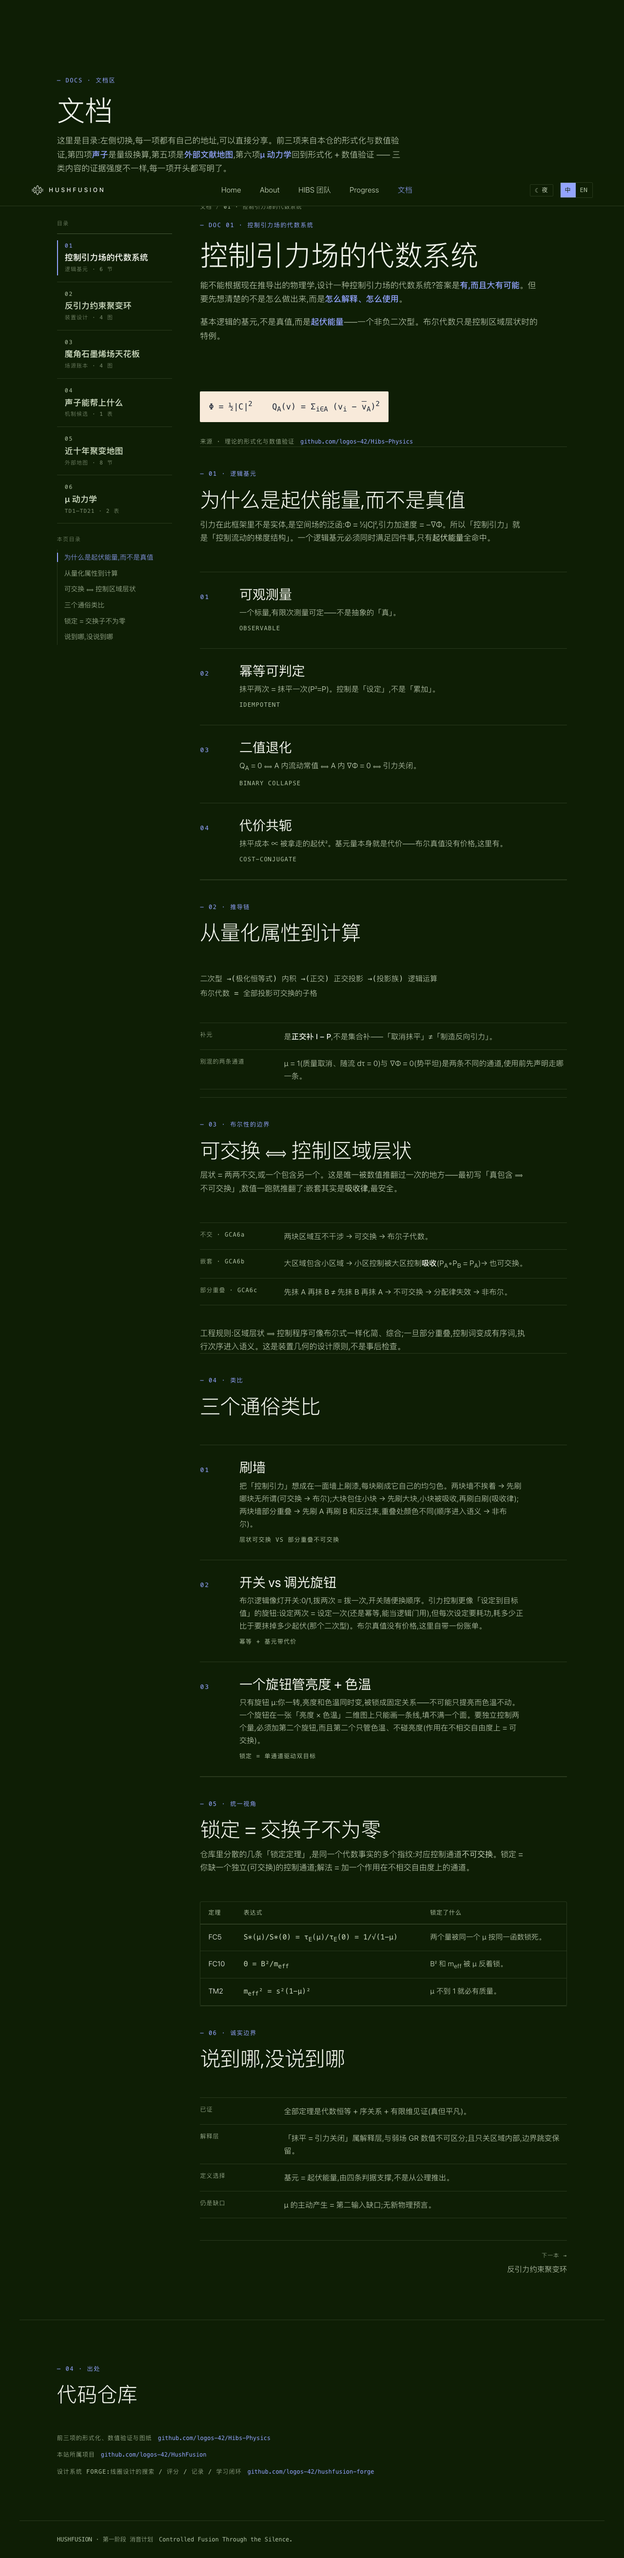
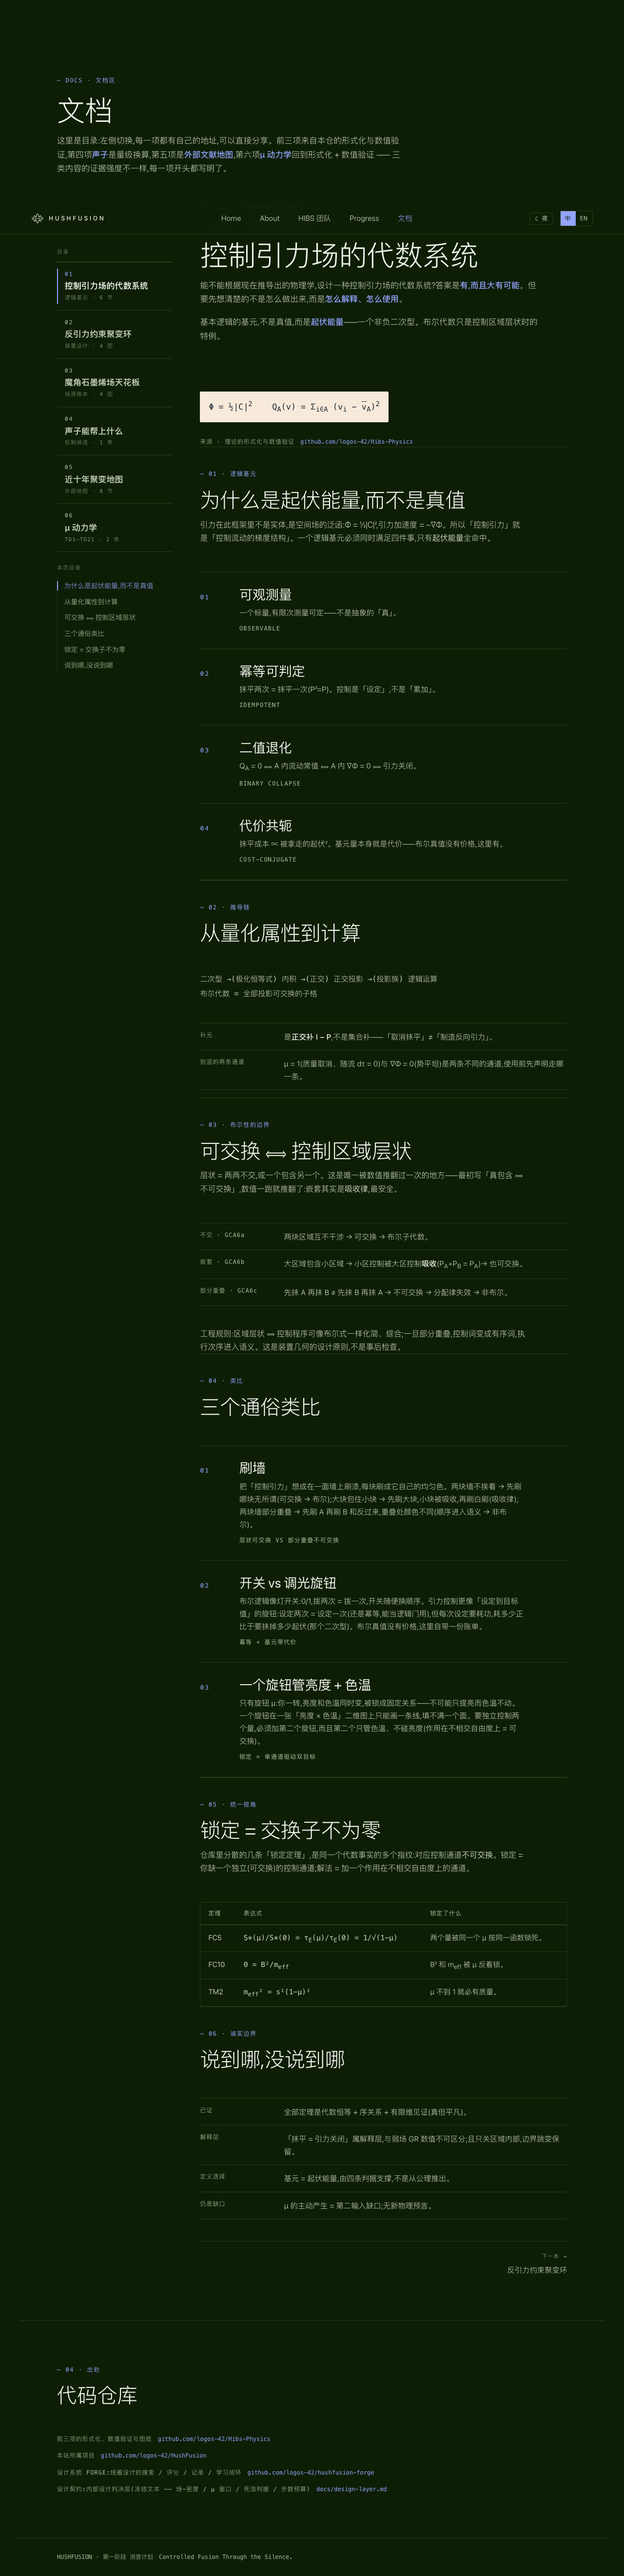
feat(site): 公开判决漏斗(8 道门表 + 判决期 1.29% + 生死门 G1)+ 挂设计契约 design-layer.md
需方裁决:「公开」「要挂」。
- 进展页新增「判决漏斗」一节:G0–G7 门表(月/交付物/通过条件/人数/预写失败处置)、
  判决期 15 人·月 = 五年 1.29%(前 18 月 93 人·月 = 8.0%,全周期 60 月)、
  生死门 G1(M6,μ 签名在不在)、μ 数量级阶梯 ~1e−4→1e−3→1e−2→1e−1
- 页内如实标注改档:原 audience: self,经需方 2026-09-26 决定公开;
  表尾保留「数目字是排程假设,不是承诺;货币成本按约定不入账」
- docs.html「本站所属项目」新增设计契约行 → hushfusion-forge/docs/design-layer.md;
  进展页 #forge 同步加「判决层契约(冻结文本) →」

验收:verify-site.mjs 226/226(本地 + 部署后线上);线上读回逐条命中;
wiki 7 道门全绿;未改 style.css/app.js ⇒ ?v= 仍 19

diff --git a/progress.html b/progress.html
@@ -62,6 +62,36 @@
     <p><span class="status">Not built yet · device</span> <span class="status">Running · FORGE v0.1.0</span></p>
   </section>
 
+  <!-- ◆ 判决漏斗:装置侧唯一已经写死的东西不是参数,是判据 -->
+  <section class="band" id="funnel">
+    <div class="section-head reveal">
+      <p class="kicker" data-zh="— 判决漏斗" data-en="— Verdict funnel">— 判决漏斗</p>
+      <h2 class="section-title" data-html="1" data-zh="&lt;strong&gt;3 个判决量 + 8 道门 + 1 条 μ 数量级阶梯&lt;/strong&gt;:先把判决条件写死,再动采购" data-en="&lt;strong&gt;3 verdict quantities + 8 gates + 1 μ order-of-magnitude ladder&lt;/strong&gt;: fix the verdict conditions first, buy things later">3 个判决量 + 8 道门 + 1 条 μ 数量级阶梯:先把判决条件写死,再动采购</h2>
+      <p class="section-lede" data-html="1"
+         data-zh="装置侧现在的位置就是这张表的第一行。&lt;strong&gt;前 6 个月&lt;/strong&gt;只花 &lt;strong&gt;15 人·月&lt;/strong&gt;(五年计划的 &lt;strong&gt;1.29%&lt;/strong&gt;),而 &lt;strong&gt;G1(M6)是全计划最便宜也最决定性的一步 —— 生死门:μ 签名在不在&lt;/strong&gt;。每个阶段要碰到的 μ 量级是预先写死的:~1e−4(G0,桌面,无装置)→ 1e−3(G1)→ 1e−2(G2 / G3 复现)→ 1e−1(G4);前 18 个月合起来 93 人·月,占五年 8.0%;全周期 60 个月。每一道门的失败处置都在立项前写好了 —— 这是这张表最要紧的部分。"
+         data-en="The device side currently sits on the first row of this table. The &lt;strong&gt;first six months&lt;/strong&gt; cost &lt;strong&gt;15 person-months&lt;/strong&gt; (1.29% of the five-year plan), and &lt;strong&gt;G1 (M6) is the cheapest and most decisive step in the whole plan — the life-or-death gate: is there a μ signature or not&lt;/strong&gt;. The order of magnitude each stage has to reach is fixed in advance: ~1e−4 (G0, bench, no device) → 1e−3 (G1) → 1e−2 (G2 / G3 reproduction) → 1e−1 (G4); the first 18 months together are 93 person-months, 8.0% of the five years; the full cycle is 60 months. Every gate has its failure handling written before the project starts — the most important part of this table.">装置侧现在的位置就是这张表的第一行。<strong>前 6 个月</strong>只花 <strong>15 人·月</strong>(五年计划的 <strong>1.29%</strong>),而 <strong>G1(M6)是全计划最便宜也最决定性的一步 —— 生死门:μ 签名在不在</strong>。每个阶段要碰到的 μ 量级是预先写死的:~1e−4(G0,桌面,无装置)→ 1e−3(G1)→ 1e−2(G2 / G3 复现)→ 1e−1(G4);前 18 个月合起来 93 人·月,占五年 8.0%;全周期 60 个月。每一道门的失败处置都在立项前写好了 —— 这是这张表最要紧的部分。</p>
+    </div>
+
+      <div class="table-wrap reveal">
+        <table class="doc">
+          <thead>
+            <tr><th data-zh="门" data-en="Gate">门</th><th data-zh="月" data-en="Month">月</th><th data-zh="交付物" data-en="Deliverable">交付物</th><th data-zh="通过条件" data-en="Pass condition">通过条件</th><th data-zh="失败处置(预写)" data-en="Pre-written failure handling">失败处置(预写)</th></tr>
+          </thead>
+          <tbody>
+                <tr><td data-zh="G0 · 2 人" data-en="G0 · 2 people">G0 · 2 人</td><td data-zh="3" data-en="3">3</td><td data-zh="判据规范 + 零假设基准 + 预注册协议(论文 1)" data-en="Criteria spec + null-hypothesis baseline + pre-registration protocol (paper 1)">判据规范 + 零假设基准 + 预注册协议(论文 1)</td><td data-zh="标准 MHD 预测 R_ci = 0 的解析 / 数值基准 + 诊断方案定标" data-en="Analytic and numerical benchmarks for the standard-MHD prediction R_ci = 0, plus diagnostics calibrated">标准 MHD 预测 R_ci = 0 的解析 / 数值基准 + 诊断方案定标</td><td data-zh="继续(无实验)" data-en="Continue (no experiment)">继续(无实验)</td></tr>
+                <tr><td data-zh="G1 · 3 人" data-en="G1 · 3 people">G1 · 3 人</td><td data-zh="6" data-en="6">6</td><td data-zh="<strong>D1 判决实验 v1</strong>(桌面判据台)" data-en="<strong>D1 verdict experiment v1</strong> (bench-top criteria rig)"><strong>D1 判决实验 v1</strong>(桌面判据台)</td><td data-zh="R_ci 实测 &gt; 3σ,且零假设预测 &lt; 分辨率" data-en="Measured R_ci &gt; 3σ, with the null-hypothesis prediction &lt; resolution">R_ci 实测 &gt; 3σ,且零假设预测 &lt; 分辨率</td><td data-zh="R_ci = 0 ⟹ 停装置线,转纯理论(负结果可发表)" data-en="R_ci = 0 ⟹ halt the device line, go pure theory (a negative result is publishable)">R_ci = 0 ⟹ 停装置线,转纯理论(负结果可发表)</td></tr>
+                <tr><td data-zh="G2 · 5 人" data-en="G2 · 5 people">G2 · 5 人</td><td data-zh="12" data-en="12">12</td><td data-zh="D3 标度初值 k + μ(B, f, 配比)标定曲线" data-en="D3 scaling seed k + a calibration curve for μ(B, f, mix)">D3 标度初值 k + μ(B, f, 配比)标定曲线</td><td data-zh="k 拟合带置信区间;μ 达 1e−2" data-en="k fitted with a confidence interval; μ reaching 1e−2">k 拟合带置信区间;μ 达 1e−2</td><td data-zh="k &lt; 0.5 ⟹ 转 B 计划(μ 降级为辅助输运层)" data-en="k &lt; 0.5 ⟹ switch to plan B (μ demoted to an auxiliary transport layer)">k &lt; 0.5 ⟹ 转 B 计划(μ 降级为辅助输运层)</td></tr>
+                <tr><td data-zh="G3 · 8 人" data-en="G3 · 8 people">G3 · 8 人</td><td data-zh="18" data-en="18">18</td><td data-zh="外部实验室独立复现(≥2 装置 / ≥3 批次)" data-en="Independent reproduction in external labs (≥2 rigs / ≥3 batches)">外部实验室独立复现(≥2 装置 / ≥3 批次)</td><td data-zh="复现包齐全,第三方数据同号同量级" data-en="Reproduction package complete; third-party data same sign, same order of magnitude">复现包齐全,第三方数据同号同量级</td><td data-zh="复现失败 ⟹ 回 G1 重设诊断" data-en="Reproduction fails ⟹ return to G1 and re-spec the diagnostics">复现失败 ⟹ 回 G1 重设诊断</td></tr>
+                <tr><td data-zh="G4 · 12 人" data-en="G4 · 12 people">G4 · 12 人</td><td data-zh="24" data-en="24">24</td><td data-zh="D2 锁定判决(Λ)+ τ_E 标度律(FC4)" data-en="D2 locking verdict (Λ) + the τ_E scaling law (FC4)">D2 锁定判决(Λ)+ τ_E 标度律(FC4)</td><td data-zh="同 μ 下 τ_E 增益与 s 惩罚的实测比 + 1/√(1−μ) 拟合" data-en="Measured ratio of τ_E gain to s penalty at equal μ, plus a 1/√(1−μ) fit">同 μ 下 τ_E 增益与 s 惩罚的实测比 + 1/√(1−μ) 拟合</td><td data-zh="Λ = 1 ⟹ 反引力不可作主约束,并入 FRC / CFR2 路线" data-en="Λ = 1 ⟹ anti-gravity cannot be the primary constraint; merge into FRC / CFR2">Λ = 1 ⟹ 反引力不可作主约束,并入 FRC / CFR2 路线</td></tr>
+                <tr><td data-zh="G5 · 20 人" data-en="G5 · 20 people">G5 · 20 人</td><td data-zh="36" data-en="36">36</td><td data-zh="D-D 产额标度 + μ–⟨σv⟩ 耦合闭合" data-en="D-D yield scaling + closing the μ–⟨σv⟩ coupling">D-D 产额标度 + μ–⟨σv⟩ 耦合闭合</td><td data-zh="中子产额对约束参数的标度律;反应率随 μ 的实测修正" data-en="A scaling law of neutron yield against confinement parameters; measured correction of reactivity with μ">中子产额对约束参数的标度律;反应率随 μ 的实测修正</td><td data-zh="产额不随约束提升 ⟹ 回 G4" data-en="Yield does not rise with confinement ⟹ return to G4">产额不随约束提升 ⟹ 回 G4</td></tr>
+                <tr><td data-zh="G6 · 28 人" data-en="G6 · 28 people">G6 · 28 人</td><td data-zh="48" data-en="48">48</td><td data-zh="D-T / 等效高性能燃烧路线评估" data-en="D-T / equivalent high-performance burn route assessment">D-T / 等效高性能燃烧路线评估</td><td data-zh="完成 D-D / 替代实验、屏蔽与许可设计工程门;D-T Q&gt;1 只是外部合作或极限情形,不作五年承诺" data-en="Close the D-D / alternative experiments, shielding and licensing engineering gates; D-T Q&gt;1 is only an external-collaboration or limiting case, never a five-year promise">完成 D-D / 替代实验、屏蔽与许可设计工程门;D-T Q&gt;1 只是外部合作或极限情形,不作五年承诺</td><td data-zh="未达燃烧条件 ⟹ 保留 D-D / 脉冲实验主线" data-en="Burn conditions not reached ⟹ keep the D-D / pulsed experiment main line">未达燃烧条件 ⟹ 保留 D-D / 脉冲实验主线</td></tr>
+                <tr><td data-zh="G7 · 35 人" data-en="G7 · 35 people">G7 · 35 人</td><td data-zh="60" data-en="60">60</td><td data-zh="系统级可重复运行 + 路线裁决" data-en="System-level repeatable operation + route arbitration">系统级可重复运行 + 路线裁决</td><td data-zh="可审计能量账本、长脉冲 / 高重复率数据、独立复核与下一阶段放大方案" data-en="An auditable energy ledger, long-pulse / high-repetition data, independent review and a next-stage scale-up plan">可审计能量账本、长脉冲 / 高重复率数据、独立复核与下一阶段放大方案</td><td data-zh="—" data-en="—">—</td></tr>
+          </tbody>
+        </table>
+      </div>
+    <p style="color:var(--ink-3);font-size:.875rem;margin-top:16px" data-zh="数目字是排程假设,不是承诺;货币成本按约定不写进这份账。出处:上游 Hibs-Physics 的判决漏斗页(原标记 audience: self,经需方 2026-09-26 决定公开)。" data-en="The numbers are scheduling assumptions, not promises; monetary cost is by convention kept out of this ledger. Source: the verdict-funnel page in the upstream Hibs-Physics repository (originally marked audience: self, released by the owner on 2026-09-26).">数目字是排程假设,不是承诺;货币成本按约定不写进这份账。出处:上游 Hibs-Physics 的判决漏斗页(原标记 audience: self,经需方 2026-09-26 决定公开)。</p>
+  </section>
+
   <!-- ◆ 技术(原 technology.html 已并入本节) -->
   <section class="band" id="tech">
     <div class="section-head reveal">
@@ -133,6 +163,7 @@
     <p style="margin-top:26px">
       <a class="see-all" href="https://github.com/logos-42/hushfusion-forge" target="_blank" rel="noopener"
          data-zh="代码仓库:github.com/logos-42/hushfusion-forge →" data-en="Repository: github.com/logos-42/hushfusion-forge →">代码仓库:github.com/logos-42/hushfusion-forge →</a>
+      <a class="see-all" href="https://github.com/logos-42/hushfusion-forge/blob/master/docs/design-layer.md" target="_blank" rel="noopener",          style="margin-left:18px",          data-zh="判决层契约(冻结文本) →" data-en="Verdict-layer contract (frozen text) →">判决层契约(冻结文本) →</a>
     </p>
   </section>
 

diff --git a/docs.html b/docs.html
@@ -1149,6 +1149,10 @@
       <span class="mono" style="color:var(--ink-3);font-size:12px;letter-spacing:1px" data-zh="设计系统 FORGE:线圈设计的搜索 / 评分 / 记录 / 学习闭环" data-en="The FORGE design system: search, score, record and learn coil designs">设计系统 FORGE:线圈设计的搜索 / 评分 / 记录 / 学习闭环</span>
       <a href="https://github.com/logos-42/hushfusion-forge" rel="noopener">github.com/logos-42/hushfusion-forge</a>
     </p>
+    <p class="cite-links reveal" style="margin-top:14px">
+      <span class="mono" style="color:var(--ink-3);font-size:12px;letter-spacing:1px" data-zh="设计契约:内部设计判决层(冻结文本 —— 场-密度 / μ 窗口 / 死活判据 / 步数预算)" data-en="Design contract: the internal-design verdict layer (frozen: field-density / mu window / death threshold / step budget)">设计契约:内部设计判决层(冻结文本 —— 场-密度 / μ 窗口 / 死活判据 / 步数预算)</span>
+      <a href="https://github.com/logos-42/hushfusion-forge/blob/master/docs/design-layer.md" rel="noopener">docs/design-layer.md</a>
+    </p>
   </section>
 
 </main>

diff --git a/docs/wiki/log.md b/docs/wiki/log.md
@@ -236,5 +236,7 @@
 | 2026-09-26 | feat | 判决层接入:进展页 `#forge` 增「内部设计判决层」一栏 —— 上游闭式解(PF3/FC1/FC4/FC11b/TD19–TD21)实现成六道门,同一份参考设计的结论:MATBG (N=2) 面外 0.12 T ⟹ **无解**(χ_μ = 2.1e−4);面内 1.6 T ⟹ 窗口开(1.479)但线圈峰场 3.416 T 超天花板 ⟹ 不成立 | 需方「Forge 要根据 ProjectionPhysics 内部的设计来实现,然后把进展页的概念改动」;上游 = `logos-42/Hibs-Physics` |
 | 2026-09-26 | design | 阶段口径改准:「概念」→ 事实陈述(装置侧还没有装置,当前处在**判据规范**这一步;设计侧已有可运行系统)。门数 16 → 17(新增 G17 内部设计锚点门),首页 / 进展页 / 关于页三处同步 | 「概念」是含糊词;上游那一步有名字。公开纪律:上游 wiki 58 页全 `audience: self` ⟹ 判决漏斗的排期 / 人·月 / 编成 / 门表**不进公开站**,只发这一步的名字 |
 | 2026-09-26 | fix | 修站点自己的一个**假红**:`deploy.sh` 的线上验收在 `set -o pipefail` + `set -e` 下,发布刚落地时的抖动会让**整个部署退出 1**(内容其实已核对)。改为重试到判据(最多 3 次),三次都不过才报「这是真红,不是抖动」 | 实测:部署那次退出 1;同一份线上验收独立重跑 **226/226 通过**。后续两次部署把抖动率量出来了:其中一次尝试 1、2 连续失败、**第 3 次才过**(重试把原本的假红救回来了);另一次第 1 次就过 ⇒ 抖动只在发布刚落地那几秒,且**一次重试不够** —— 假红比没有门更伤(会让「部署成功」这个判断失去意义) |
+| 2026-09-26 | feat | **公开判决漏斗**:进展页新增「判决漏斗」一节 —— 8 道门表(G0–G7:月 / 交付物 / 通过条件 / 人数 / 预写失败处置)+ 判决期 **15 人·月 = 五年 1.29%**(前 18 个月 93 人·月 = 8.0%,全周期 60 月)+ **生死门 G1(M6)** + μ 数量级阶梯(~1e−4 → 1e−3 → 1e−2 → 1e−1) | 需方决定公开(原页 `audience: self`);页内标注了这次改档:「原标记 audience: self,经需方 2026-09-26 决定公开」。表尾同时写明「数目字是排程假设,不是承诺;货币成本按约定不入账」 |
+| 2026-09-26 | feat | `docs.html` 挂 `hushfusion-forge/docs/design-layer.md`(冻结契约);进展页 `#forge` 同步加「判决层契约(冻结文本) →」 | 需方「要挂」。契约本身不含内部排期,可公开 |
 | 2026-09-26 | test | `node scripts/verify-site.mjs` 226/226(本地) → 部署后线上验收 226/226;线上读回逐条(内部设计判决层 / 17 道验收门 / 165 步 / χ_μ = 2.1e−4 均在;旧口径「概念阶段」「16 道验收门」全部归零) | 站点自身的门 |
 

diff --git a/docs/wiki/current-status.md b/docs/wiki/current-status.md
@@ -11,6 +11,12 @@ status: current
 
 ## 最近更新
 
+- **公开判决漏斗 + 挂设计契约(2026-09-26)**:需方裁决两条 ——「公开」「要挂」。
+  ① 进展页新增「判决漏斗」一节:8 道门表(G0–G7,含人数与**预写失败处置**)、判决期 **15 人·月 = 五年 1.29%**、**G1(M6)生死门**、μ 数量级阶梯(~1e−4 → 1e−3 → 1e−2 → 1e−1),并把「判据规范」这个阶段口径落到了具体是哪一行。
+  这一节改变了上一轮的处理方式:上一轮因上游该页 `audience: self` 而未公开其门表,需方裁决后改为公开,页内如实标注了改档来源与时间;表尾仍写明「数目字是排程假设,不是承诺;货币成本按约定不入账」。
+  ② `docs.html` 的「本站所属项目」区新增「设计契约:内部设计判决层(冻结文本)」→ `hushfusion-forge/docs/design-layer.md`;进展页 `#forge` 同步加同一条链接(契约不含内部排期,可公开)。
+  验收:`verify-site.mjs` 226/226(本地 + 部署后线上);线上读回「判决漏斗 / 15 人·月 / 1.29% / 生死门 / G7 · 35 人 / design-layer.md」逐条命中。
+
 - **接入上游判决层 + 阶段口径改准(2026-09-26)**:需方「Forge 要根据 ProjectionPhysics 项目内部的设计来实现,实现完再把进展页的概念改动」。
   上游 = `logos-42/Hibs-Physics`(本地工作副本 commit `d28cd417b3f4`),其闭式解 PF3 / FC1 / FC4 / FC11b / TD19–TD21
   已被 Forge 实现成六道可回归的门(`internal/design`,见 `hushfusion-forge` 仓库)并挂上 G17 锚点门。
